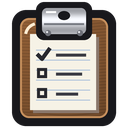
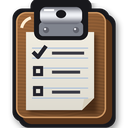
style(hud): more realistic gear, book and clipboard with depth and shadows; no ribbon
Claude-Session: https://claude.ai/code/session_018qtt7uTeVSGsnvQanUjafP

diff --git a/tools/draw_props.py b/tools/draw_props.py
@@ -300,140 +300,191 @@ ICON_LIGHT = (196, 199, 205, 255)
 ICON_SHADE = (150, 153, 162, 255)
 
 
+def _grid(n: int):
+    """Coordinates from 0 to 1 across a square picture n pixels wide, for shading."""
+    import numpy as np
+
+    return np.mgrid[0:n, 0:n] / n
+
+
+def _paint(icon: Image.Image, mask: Image.Image, rgb) -> None:
+    """Paints `rgb` (a numpy picture, height x width x 3) through the white part of `mask`."""
+    import numpy as np
+
+    layer = Image.fromarray(np.clip(rgb, 0, 255).astype("uint8"), "RGB").convert("RGBA")
+    icon.paste(layer, (0, 0), mask)
+
+
+def _mask(n: int, draw_shape) -> Image.Image:
+    mask = Image.new("L", (n, n), 0)
+    draw_shape(ImageDraw.Draw(mask))
+    return mask
+
+
+def _finish(icon: Image.Image, name: str, s: int) -> None:
+    """Adds the shared thick dark outline and a soft drop shadow, then saves the icon at 128 px."""
+    alpha = icon.getchannel("A").point(lambda v: 255 if v > 20 else 0)
+    ring = alpha.filter(ImageFilter.MaxFilter(7 * s + 1))
+    shadow = ring.filter(ImageFilter.GaussianBlur(3 * s)).point(lambda v: int(v * 0.45))
+    out = Image.new("RGBA", icon.size, (0, 0, 0, 0))
+    out.paste(Image.new("RGBA", icon.size, (0, 0, 0, 255)), (2 * s, 3 * s), shadow)
+    out.paste(Image.new("RGBA", icon.size, ICON_INK), (0, 0), ring)
+    out.alpha_composite(icon)
+    out.resize((128, 128), Image.LANCZOS).save(ROOT / "assets" / "ui" / name)
+
+
 def draw_book_icon() -> None:
-    """The memories (Alaala) icon: an old book lying open, its yellowed pages curving up from the
-    spine, on a worn brown leather cover, with a red ribbon marking the page."""
-    s = 8
-    icon = Image.new("RGBA", (128 * s, 128 * s), (0, 0, 0, 0))
-    d = ImageDraw.Draw(icon)
-    leather, leather_dark = (122, 74, 42, 255), (84, 48, 26, 255)
-    page, page_shade, page_edge = (238, 222, 184, 255), (214, 192, 146, 255), (190, 164, 118, 255)
-    # The outline of the whole open book, then the cover peeking out below the pages.
-    d.polygon([(2 * s, 30 * s), (40 * s, 22 * s), (64 * s, 32 * s), (88 * s, 22 * s), (126 * s, 30 * s),
-               (126 * s, 104 * s), (88 * s, 98 * s), (64 * s, 110 * s), (40 * s, 98 * s), (2 * s, 104 * s)], fill=ICON_INK)
-    d.polygon([(10 * s, 38 * s), (40 * s, 32 * s), (64 * s, 40 * s), (88 * s, 32 * s), (118 * s, 38 * s),
-               (118 * s, 98 * s), (88 * s, 92 * s), (64 * s, 102 * s), (40 * s, 92 * s), (10 * s, 98 * s)], fill=leather_dark)
-    d.polygon([(10 * s, 38 * s), (40 * s, 32 * s), (64 * s, 40 * s), (64 * s, 96 * s), (40 * s, 88 * s), (10 * s, 92 * s)], fill=leather)
-    # The two pages, each curving up from the spine, with the stacked edges below them.
-    for side in (-1, 1):
-        x0, x1 = 64, 64 + side * 50
-        top = [(x0, 34), (64 + side * 22, 26), (x1, 30), (x1, 86), (64 + side * 22, 82), (x0, 90)]
-        d.polygon([(x * s, (y + 4) * s) for x, y in top], fill=page_edge)
-        d.polygon([(x * s, y * s) for x, y in top], fill=page if side < 0 else page_shade)
-        # Faded lines of old writing.
-        for row in range(5):
-            y = 42 + row * 8
-            d.line([((64 + side * 10) * s, (y + 1) * s), ((64 + side * 42) * s, (y - 3) * s)], fill=(150, 120, 80, 255), width=2 * s)
-    # The spine's crease and the ribbon hanging out of the book.
-    d.line([(64 * s, 34 * s), (64 * s, 92 * s)], fill=(120, 92, 56, 255), width=3 * s)
-    d.polygon([(70 * s, 88 * s), (78 * s, 88 * s), (78 * s, 122 * s), (74 * s, 117 * s), (70 * s, 122 * s)], fill=(178, 46, 40, 255))
-    d.arc((16 * s, 30 * s, 52 * s, 62 * s), 200, 260, fill=(255, 255, 255, 255), width=4 * s)
-    icon.resize((128, 128), Image.LANCZOS).save(ROOT / "assets" / "ui" / "book.png")
-
-
-def draw_clipboard_icon() -> None:
-    """The objectives icon: a real brown hardboard clipboard with a shiny steel clip and a sheet of
-    paper with a checklist, drawn with the same care as the book: grain, shading and highlights."""
+    """The memories (Alaala) icon: an old book lying open, seen a little from above. A worn leather
+    cover shows under the pages, the pages bow up from the spine with a deep shadow in the gutter,
+    the stacked page edges give it thickness, and the paper is yellowed with faded writing and a
+    few age spots."""
     import numpy as np
 
     s = 8
     n = 128 * s
+    yy, xx = _grid(n)
     icon = Image.new("RGBA", (n, n), (0, 0, 0, 0))
+    # The cover: dark worn leather with a grain, a little wider and lower than the pages.
+    cover = _mask(n, lambda d: d.polygon([(6 * s, 40 * s), (40 * s, 32 * s), (64 * s, 40 * s), (88 * s, 32 * s), (122 * s, 40 * s),
+                                          (122 * s, 106 * s), (88 * s, 100 * s), (64 * s, 110 * s), (40 * s, 100 * s), (6 * s, 106 * s)], fill=255))
+    leather = np.array([110, 62, 34], float)[None, None, :] * (1.0 - 0.35 * yy[..., None]) * (1 + 0.08 * np.sin(xx * 300 + yy * 90)[..., None])
+    _paint(icon, cover, leather)
+    # The stacked page edges under each page: thin cream lines, darker toward the bottom.
+    for side in (-1, 1):
+        for layer in range(5):
+            dy = 14 - layer * 3
+            edge = _mask(n, lambda d, side=side, dy=dy: d.polygon([((64) * s, (38 + dy) * s), ((64 + side * 24) * s, (30 + dy) * s), ((64 + side * 54) * s, (34 + dy) * s),
+                                                                   ((64 + side * 54) * s, (88 + dy) * s), ((64 + side * 24) * s, (84 + dy) * s), (64 * s, (92 + dy) * s)], fill=255))
+            tone = 200 - layer * 6 if layer % 2 == 0 else 176 - layer * 4
+            _paint(icon, edge, np.full((n, n, 3), [tone, tone - 22, tone - 62], float))
+    # The two pages: aged paper, brighter at the outer edge and shaded deep into the gutter.
+    for side in (-1, 1):
+        page = _mask(n, lambda d, side=side: d.polygon([(64 * s, 38 * s), ((64 + side * 24) * s, 28 * s), ((64 + side * 54) * s, 32 * s),
+                                                       ((64 + side * 54) * s, 86 * s), ((64 + side * 24) * s, 82 * s), (64 * s, 92 * s)], fill=255))
+        dist = np.abs(xx - 0.5) * 2
+        light = 0.62 + 0.38 * np.clip(dist * 1.6, 0, 1) - (0.06 if side > 0 else 0.0)
+        stains = 0.04 * np.sin(xx * 37 + 1.3) * np.sin(yy * 29) + 0.03 * np.sin(xx * 91 + yy * 53)
+        paper = np.array([240, 224, 186], float)[None, None, :] * (light + stains)[..., None]
+        _paint(icon, page, paper)
     d = ImageDraw.Draw(icon)
-    # The board: a dark outline, then brown hardboard shaded from light (top left) to dark.
-    d.rounded_rectangle((12 * s, 10 * s, 116 * s, 126 * s), radius=14 * s, fill=ICON_INK)
-    board_mask = Image.new("L", (n, n), 0)
-    ImageDraw.Draw(board_mask).rounded_rectangle((20 * s, 18 * s, 108 * s, 118 * s), radius=9 * s, fill=255)
-    yy, xx = np.mgrid[0:n, 0:n] / n
-    shade = 1.0 - 0.35 * (xx * 0.4 + yy * 0.6)
-    grain = 0.06 * np.sin(yy * 260 + np.sin(xx * 9) * 3) + 0.03 * np.sin(yy * 610)
-    base = np.array([150, 98, 56], dtype=float)
-    board = np.clip(base[None, None, :] * (shade + grain)[..., None], 0, 255).astype("uint8")
-    board_img = Image.fromarray(board, "RGB").convert("RGBA")
-    icon.paste(board_img, (0, 0), board_mask)
-    # A thin lighter bevel along the board's top and left edges.
-    d.rounded_rectangle((20 * s, 18 * s, 108 * s, 118 * s), radius=9 * s, outline=(196, 142, 92, 255), width=2 * s)
-    # The paper, with a soft shadow under it and faint blue lines.
-    d.rectangle((33 * s, 37 * s, 99 * s, 113 * s), fill=(70, 40, 20, 160))
-    d.rectangle((30 * s, 34 * s, 96 * s, 110 * s), fill=(246, 242, 230, 255))
+    # Faded handwriting, each line following the page's curve: up from the spine, then level.
+    for side in (-1, 1):
+        for row in range(6):
+            y0 = 44 + row * 7
+            length = 38 if row < 5 else 22
+            pts = [((64 + side * 8) * s, (y0 + 2) * s), ((64 + side * 24) * s, (y0 - 6) * s),
+                   ((64 + side * (8 + length)) * s, (y0 - 4) * s)]
+            d.line(pts, fill=(150, 116, 76, 255), width=int(1.5 * s), joint="curve")
+    # A few faint age spots, blended into the paper.
+    spots = Image.new("RGBA", (n, n), (0, 0, 0, 0))
+    sd = ImageDraw.Draw(spots)
+    for cx, cy, r in ((30, 72, 5), (98, 50, 4), (86, 76, 6)):
+        sd.ellipse(((cx - r) * s, (cy - r) * s, (cx + r) * s, (cy + r) * s), fill=(170, 130, 70, 60))
+    spots = spots.filter(ImageFilter.GaussianBlur(2 * s))
+    icon.alpha_composite(Image.composite(spots, Image.new("RGBA", (n, n)), icon.getchannel("A")))
+    # The gutter: a dark crease where the pages meet the spine.
+    d.line([(64 * s, 38 * s), (64 * s, 92 * s)], fill=(90, 62, 36, 255), width=3 * s)
+    # A soft shine on the upper left page.
+    d.arc((14 * s, 30 * s, 54 * s, 70 * s), 200, 255, fill=(255, 252, 240, 255), width=3 * s)
+    _finish(icon, "book.png", s)
+
+
+def draw_clipboard_icon() -> None:
+    """The objectives icon: a brown hardboard clipboard with real thickness, a sheet of paper whose
+    corner lifts a little, and a steel clip with a lever, a hole and rivets."""
+    import numpy as np
+
+    s = 8
+    n = 128 * s
+    yy, xx = _grid(n)
+    icon = Image.new("RGBA", (n, n), (0, 0, 0, 0))
+    # The board's thickness: a darker copy below and to the right of its face.
+    side = _mask(n, lambda d: d.rounded_rectangle((22 * s, 18 * s, 112 * s, 124 * s), radius=10 * s, fill=255))
+    _paint(icon, side, np.full((n, n, 3), [88, 52, 26], float))
+    face = _mask(n, lambda d: d.rounded_rectangle((16 * s, 12 * s, 106 * s, 118 * s), radius=10 * s, fill=255))
+    shade = 1.06 - 0.38 * (xx * 0.4 + yy * 0.6)
+    grain = 0.05 * np.sin(yy * 250 + np.sin(xx * 11) * 4) + 0.025 * np.sin(yy * 700 + xx * 20)
+    _paint(icon, face, np.array([156, 102, 58], float)[None, None, :] * (shade + grain)[..., None])
+    d = ImageDraw.Draw(icon)
+    d.rounded_rectangle((16 * s, 12 * s, 106 * s, 118 * s), radius=10 * s, outline=(204, 150, 98, 255), width=int(1.5 * s))
+    # The paper, with a soft shadow, faint lines, a checklist and a lifted bottom right corner.
+    shadow = _mask(n, lambda dd: dd.rectangle((29 * s, 35 * s, 97 * s, 113 * s), fill=255)).filter(ImageFilter.GaussianBlur(2 * s))
+    icon.paste(Image.new("RGBA", (n, n), (40, 20, 8, 255)), (0, 0), shadow.point(lambda v: int(v * 0.6)))
+    sheet = _mask(n, lambda dd: dd.polygon([(26 * s, 32 * s), (94 * s, 32 * s), (94 * s, 98 * s), (82 * s, 110 * s), (26 * s, 110 * s)], fill=255))
+    _paint(icon, sheet, np.array([248, 244, 232], float)[None, None, :] * (1.0 - 0.12 * yy[..., None]))
+    d.polygon([(94 * s, 98 * s), (82 * s, 110 * s), (84 * s, 99 * s)], fill=(214, 206, 188, 255))
     for row in range(6):
-        y = (50 + row * 10) * s
-        d.line([(36 * s, y), (90 * s, y)], fill=(176, 196, 220, 255), width=s)
-    # The checklist: a tick, a box, ink lines.
-    d.line([(37 * s, 54 * s), (42 * s, 59 * s), (50 * s, 48 * s)], fill=(40, 40, 46, 255), width=4 * s, joint="curve")
-    d.line([(56 * s, 55 * s), (86 * s, 55 * s)], fill=(60, 60, 68, 255), width=3 * s)
-    d.rectangle((37 * s, 68 * s, 47 * s, 78 * s), outline=(40, 40, 46, 255), width=3 * s)
-    d.line([(56 * s, 74 * s), (82 * s, 74 * s)], fill=(60, 60, 68, 255), width=3 * s)
-    d.rectangle((37 * s, 88 * s, 47 * s, 98 * s), outline=(40, 40, 46, 255), width=3 * s)
-    d.line([(56 * s, 94 * s), (78 * s, 94 * s)], fill=(60, 60, 68, 255), width=3 * s)
-    # The steel clip: outline, a brushed metal gradient, a fold, a hole and a bright highlight.
-    d.rounded_rectangle((36 * s, 2 * s, 92 * s, 40 * s), radius=8 * s, fill=ICON_INK)
-    clip_mask = Image.new("L", (n, n), 0)
-    ImageDraw.Draw(clip_mask).rounded_rectangle((42 * s, 8 * s, 86 * s, 34 * s), radius=5 * s, fill=255)
-    metal = np.clip(205 + 45 * np.cos(yy * 40) - 60 * (yy * 4 % 1.0) * 0, 120, 250)
-    steel = np.stack([metal, metal + 2, metal + 8], axis=-1).clip(0, 255).astype("uint8")
-    icon.paste(Image.fromarray(steel, "RGB").convert("RGBA"), (0, 0), clip_mask)
-    d.line([(44 * s, 24 * s), (84 * s, 24 * s)], fill=(120, 124, 132, 255), width=2 * s)
-    d.ellipse((58 * s, 11 * s, 70 * s, 20 * s), fill=ICON_INK)
-    d.line([(46 * s, 12 * s), (56 * s, 12 * s)], fill=(255, 255, 255, 255), width=2 * s)
-    # Two rivets holding the clip to the board.
-    for x in (48, 80):
-        d.ellipse(((x - 3) * s, 30 * s, (x + 3) * s, 36 * s), fill=(110, 112, 120, 255))
-        d.ellipse(((x - 2) * s, 31 * s, x * s, 33 * s), fill=(235, 236, 240, 255))
-    # The shine on the board's top left.
-    d.arc((24 * s, 22 * s, 52 * s, 50 * s), 190, 255, fill=(255, 236, 210, 255), width=3 * s)
-    icon.resize((128, 128), Image.LANCZOS).save(ROOT / "assets" / "ui" / "clipboard.png")
+        y = (48 + row * 10) * s
+        d.line([(32 * s, y), (88 * s, y)], fill=(170, 192, 220, 255), width=s)
+    d.line([(33 * s, 52 * s), (38 * s, 57 * s), (46 * s, 46 * s)], fill=(36, 36, 44, 255), width=4 * s, joint="curve")
+    d.line([(52 * s, 53 * s), (84 * s, 53 * s)], fill=(60, 60, 70, 255), width=3 * s)
+    for y in (66, 86):
+        d.rectangle((33 * s, y * s, 43 * s, (y + 10) * s), outline=(36, 36, 44, 255), width=3 * s)
+        d.line([(52 * s, (y + 6) * s), (80 * s, (y + 6) * s)], fill=(60, 60, 70, 255), width=3 * s)
+    # The steel clip: a dark back plate, a shaded lever bent toward the viewer, a hole and rivets.
+    d.rounded_rectangle((34 * s, 2 * s, 88 * s, 40 * s), radius=8 * s, fill=ICON_INK)
+    plate = _mask(n, lambda dd: dd.rounded_rectangle((39 * s, 22 * s, 83 * s, 36 * s), radius=4 * s, fill=255))
+    _paint(icon, plate, np.full((n, n, 3), [128, 132, 142], float))
+    lever = _mask(n, lambda dd: dd.rounded_rectangle((40 * s, 7 * s, 82 * s, 24 * s), radius=6 * s, fill=255))
+    band = np.cos((yy - 15 / 128) * 40)
+    _paint(icon, lever, np.stack([170 + 70 * band, 172 + 70 * band, 180 + 66 * band], axis=-1))
+    d.ellipse((56 * s, 10 * s, 66 * s, 18 * s), fill=ICON_INK)
+    d.line([(44 * s, 10 * s), (54 * s, 10 * s)], fill=(255, 255, 255, 255), width=2 * s)
+    for x in (46, 76):
+        d.ellipse(((x - 3) * s, 27 * s, (x + 3) * s, 33 * s), fill=(96, 98, 108, 255))
+        d.ellipse(((x - 2) * s, 28 * s, x * s, 30 * s), fill=(240, 240, 244, 255))
+    d.arc((20 * s, 16 * s, 48 * s, 44 * s), 190, 255, fill=(255, 236, 210, 255), width=3 * s)
+    _finish(icon, "clipboard.png", s)
 
 
 def draw_gear_icon() -> None:
-    """The settings icon: a steel cog drawn with the same care as the book: a thick dark outline,
-    brushed metal shaded by light from the top left, bevelled teeth, a raised hub with a bolt hole,
-    and a bright highlight."""
+    """The settings icon: a thick steel cog seen slightly from the front, so its side shows. The
+    face is brushed metal lit from the top left, each tooth has a bevelled edge, a raised hub ring
+    sits around a dark bolt hole, and a bright highlight runs along the top."""
     import math
 
     import numpy as np
 
     s = 8
     n = 128 * s
-    c = n / 2
-    teeth, r_out, r_in, r_hole = 8, 60 * s, 45 * s, 17 * s
+    c = 62 * s
+    teeth, r_out, r_in, r_hole = 8, 56 * s, 42 * s, 15 * s
+    yy, xx = _grid(n)
 
-    def cog(scale: float) -> list:
+    def cog(scale: float, dx: float = 0.0, dy: float = 0.0) -> list:
         points = []
-        for i in range(teeth * 4):
-            a = (i / (teeth * 4)) * 2 * math.pi - math.pi / 2
-            r = r_out if (i % 4) in (1, 2) else r_in
-            r *= scale
-            points.append((c + r * math.cos(a), c + r * math.sin(a)))
+        for i in range(teeth * 8):
+            a = (i / (teeth * 8)) * 2 * math.pi - math.pi / 2
+            phase = i % 8
+            r = r_out if 2 <= phase <= 5 else r_in
+            points.append((c + dx + r * scale * math.cos(a), c + dy + r * scale * math.sin(a)))
         return points
 
-    yy, xx = np.mgrid[0:n, 0:n] / n
-    lit = 1.0 - 0.45 * (xx * 0.5 + yy * 0.5)
-    brushed = 0.03 * np.sin((xx + yy) * 400)
-    metal = np.clip(205 * (lit + brushed), 0, 255)
-    steel = Image.fromarray(np.stack([metal, metal + 3, metal + 10], axis=-1).clip(0, 255).astype("uint8"), "RGB").convert("RGBA")
     icon = Image.new("RGBA", (n, n), (0, 0, 0, 0))
+    # The cog's thickness: darker steel shifted down and right.
+    for step in range(6, 0, -1):
+        side = _mask(n, lambda d, step=step: d.polygon(cog(1.0, step * s, step * s), fill=255))
+        _paint(icon, side, np.full((n, n, 3), 70 + step * 6, float))
+    # The bevel: a slightly smaller lighter ring around the face.
+    body = _mask(n, lambda d: d.polygon(cog(1.0), fill=255))
+    _paint(icon, body, np.full((n, n, 3), [128, 132, 142], float))
+    face = _mask(n, lambda d: d.polygon(cog(0.9, -s, -s), fill=255))
+    lit = 1.08 - 0.5 * (xx * 0.5 + yy * 0.5)
+    # Soft rings of brushed metal around the centre, wide enough to stay smooth when shrunk.
+    radius = np.hypot(xx - 0.48, yy - 0.48)
+    brushed = 0.04 * np.sin(radius * 70)
+    metal = 200 * (lit + brushed)
+    _paint(icon, face, np.stack([metal, metal + 4, metal + 12], axis=-1))
     d = ImageDraw.Draw(icon)
-    # Outline: the cog drawn larger in near-black.
-    outline = Image.new("L", (n, n), 0)
-    ImageDraw.Draw(outline).polygon(cog(1.0), fill=255)
-    outline = outline.filter(ImageFilter.MaxFilter(8 * s + 1))
-    icon.paste(Image.new("RGBA", (n, n), ICON_INK), (0, 0), outline)
-    # The body in shaded steel, with a darker lower right edge for thickness.
-    body = Image.new("L", (n, n), 0)
-    ImageDraw.Draw(body).polygon(cog(1.0), fill=255)
-    icon.paste(Image.new("RGBA", (n, n), (110, 114, 124, 255)), (0, 0), body)
-    face = Image.new("L", (n, n), 0)
-    ImageDraw.Draw(face).polygon([(x - 2 * s, y - 2 * s) for x, y in cog(0.96)], fill=255)
-    icon.paste(steel, (0, 0), face)
-    # A raised hub ring and the bolt hole.
-    d.ellipse((c - 30 * s, c - 30 * s, c + 30 * s, c + 30 * s), outline=(120, 124, 134, 255), width=4 * s)
-    d.ellipse((c - 26 * s, c - 26 * s, c + 26 * s, c + 26 * s), outline=(236, 238, 242, 255), width=2 * s)
-    d.ellipse((c - r_hole - 4 * s, c - r_hole - 4 * s, c + r_hole + 4 * s, c + r_hole + 4 * s), fill=ICON_INK)
-    d.ellipse((c - r_hole, c - r_hole, c + r_hole, c + r_hole), fill=(0, 0, 0, 0))
-    # Shine along the top left of the body.
-    d.arc((c - 50 * s, c - 50 * s, c + 50 * s, c + 50 * s), 200, 250, fill=(255, 255, 255, 255), width=5 * s)
-    icon.resize((128, 128), Image.LANCZOS).save(ROOT / "assets" / "ui" / "gear.png")
+    # The raised hub: a dark groove, a lit rim, and the bolt hole with its inner wall.
+    d.ellipse((c - 30 * s, c - 30 * s, c + 30 * s, c + 30 * s), outline=(96, 100, 110, 255), width=3 * s)
+    d.ellipse((c - 27 * s, c - 27 * s, c + 27 * s, c + 27 * s), outline=(240, 242, 246, 255), width=2 * s)
+    d.ellipse((c - r_hole - 4 * s, c - r_hole - 4 * s, c + r_hole + 4 * s, c + r_hole + 4 * s), fill=(150, 154, 164, 255))
+    d.ellipse((c - r_hole - 2 * s, c - r_hole - 2 * s, c + r_hole + 2 * s, c + r_hole + 2 * s), fill=ICON_INK)
+    # The hole's inner wall: a sliver of dark steel at the top, as the hole goes through the cog.
+    d.ellipse((c - r_hole + 2 * s, c - r_hole + 3 * s, c + r_hole - 2 * s, c + r_hole - 1 * s), fill=(0, 0, 0, 0))
+    d.arc((c - 46 * s, c - 46 * s, c + 46 * s, c + 46 * s), 200, 250, fill=(255, 255, 255, 255), width=4 * s)
+    _finish(icon, "gear.png", s)
 
 
 class PhoneModel:

diff --git a/HANDOFF.md b/HANDOFF.md
@@ -320,7 +320,10 @@ Each is a tagged release on `main`. `git log --oneline` and `git tag -l` show th
   Then (user): the clipboard is a realistic brown hardboard one with a steel clip and rivets,
   and the gear was redrawn in the same detail (brushed steel, bevel, hub); `gear.png` is now made
   by `tools/draw_props.py` too. Each icon's `picture_size` is set so it covers the same area as
-  the gear (gear 64, book 66, clipboard 58).
+  the gear (gear 64, book 67, clipboard 59). Later (user): no ribbon on the book, and all three
+  were redrawn with more depth: the gear's thickness and bevel, the book's leather cover, stacked
+  page edges and gutter shadow, the clipboard's board thickness and lifted paper corner, plus a
+  soft drop shadow on each (`_finish` in `draw_props.py`).
   Icons drawn by `tools/draw_props.py` (`assets/ui/book.png`, `clipboard.png`), window in
   `scripts/journal_modal.gd`. All HUD icons hide during dialogues (`GameMenu.get_hud_icons`).
 - **Music volume:** the user still has not confirmed -24 dB sounds right.
